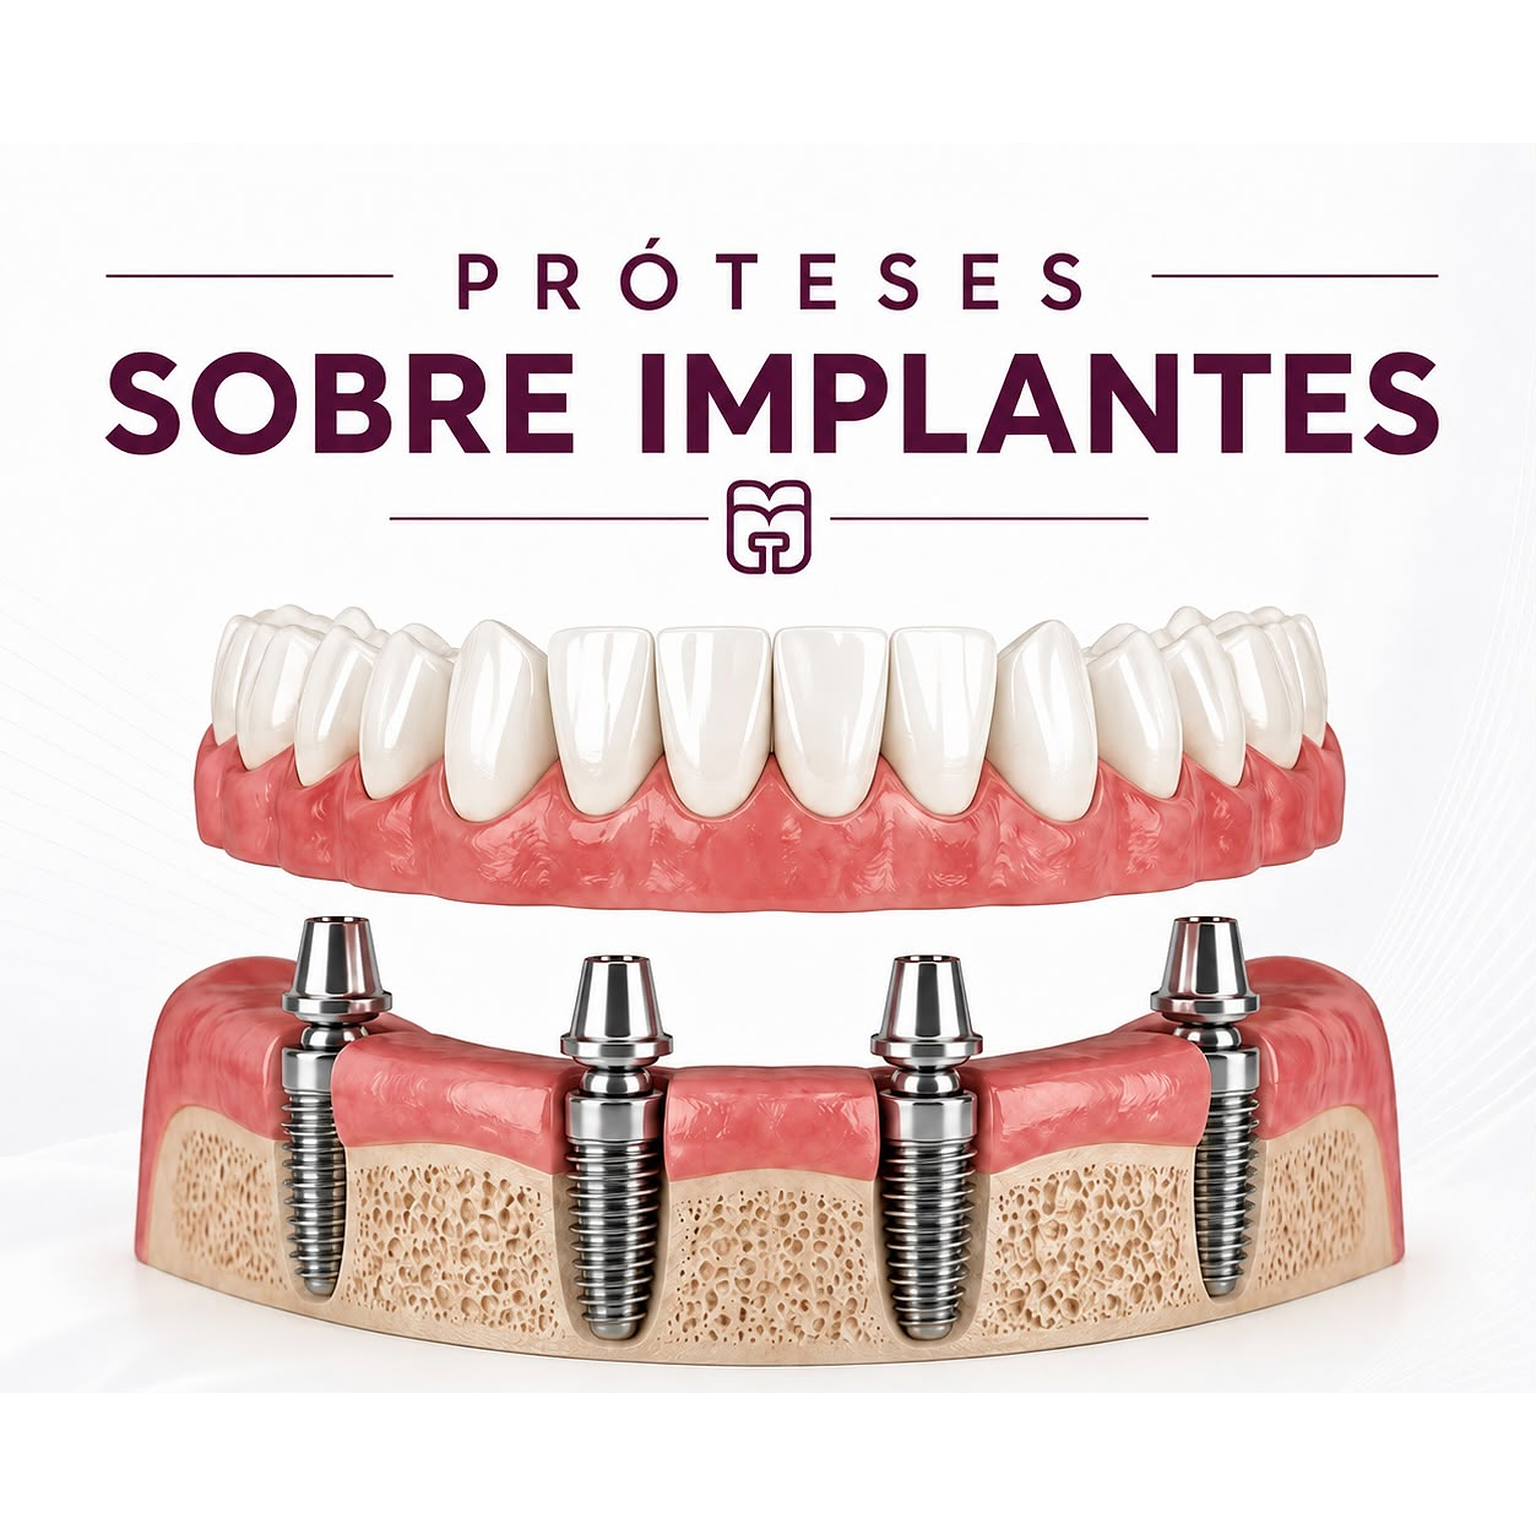
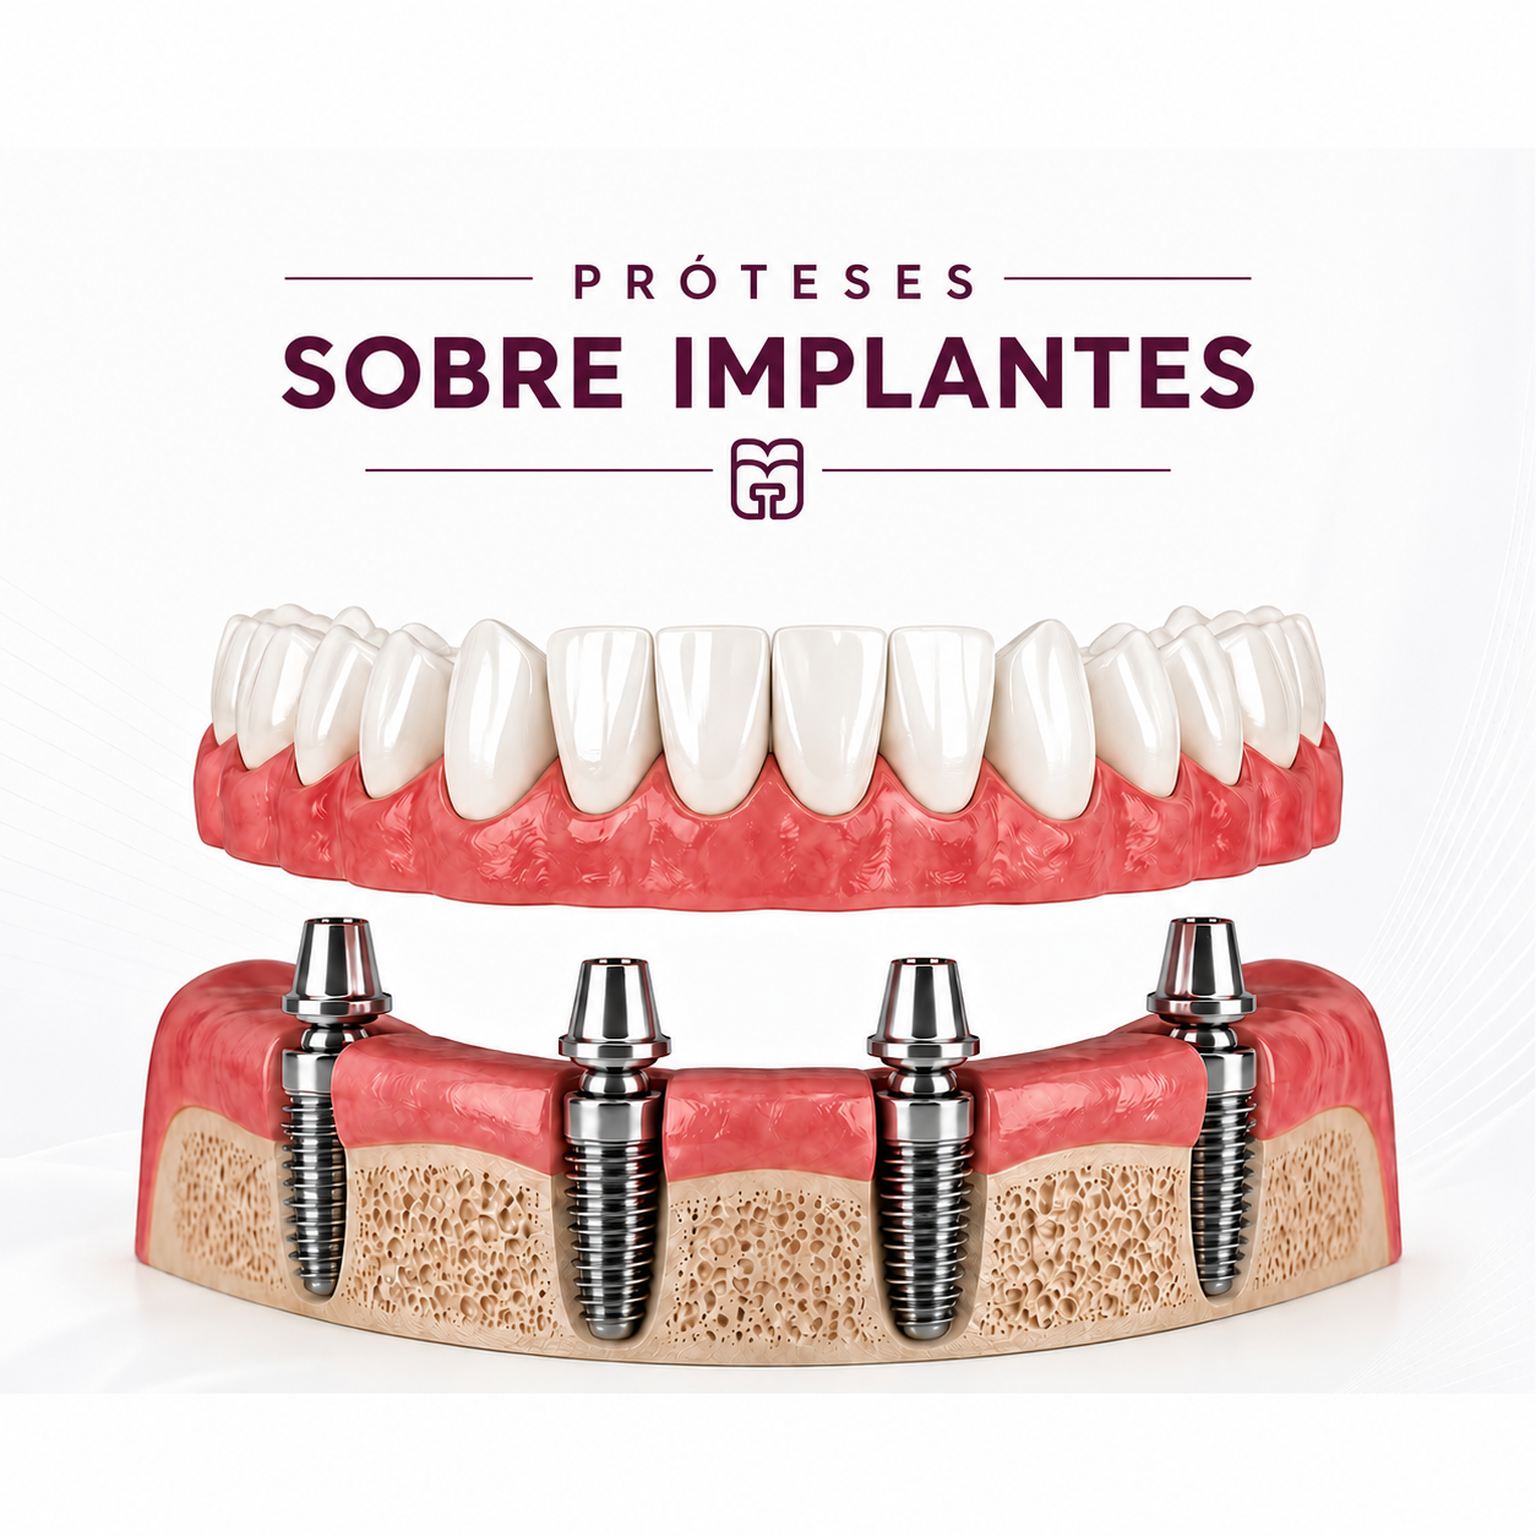
ajustes

diff --git a/src/components/site/ServicesSection.tsx b/src/components/site/ServicesSection.tsx
@@ -1,4 +1,6 @@
 import { Stethoscope, Smile, Sparkles, ShieldCheck, Scan, HeartPulse } from "lucide-react";
+import avaliacaoDigitalImage from "@/assets/avaliacaodigital.png";
+import esteticaImage from "@/assets/estetica-dental.png";
 import implanteImage from "@/assets/implantedentario.png";
 import limpezaImage from "@/assets/limpezaprevençao.png";
 import protesesImage from "@/assets/proteses.png";
@@ -65,17 +67,28 @@ export function ServicesSection() {
             const Icon = service.icon;
             const isImplantService = service.title === "Implantes Dentários";
             const isProsthesisService = service.title === "Próteses sobre Implantes";
+            const isAestheticService = service.title === "Estética Dental";
             const isRestorationService = service.title === "Restaurações";
+            const isDigitalEvaluationService = service.title === "Avaliação Digital";
             const isPreventionService = service.title === "Limpeza e Prevenção";
             const serviceImage = isImplantService
               ? implanteImage
               : isProsthesisService
                 ? protesesImage
-                : isRestorationService
-                  ? restauracaoImage
-                  : limpezaImage;
+                : isAestheticService
+                  ? esteticaImage
+                  : isRestorationService
+                    ? restauracaoImage
+                    : isDigitalEvaluationService
+                      ? avaliacaoDigitalImage
+                      : limpezaImage;
             const hasImage =
-              isImplantService || isProsthesisService || isRestorationService || isPreventionService;
+              isImplantService ||
+              isProsthesisService ||
+              isAestheticService ||
+              isRestorationService ||
+              isDigitalEvaluationService ||
+              isPreventionService;
             return (
               <div
                 key={service.title}
